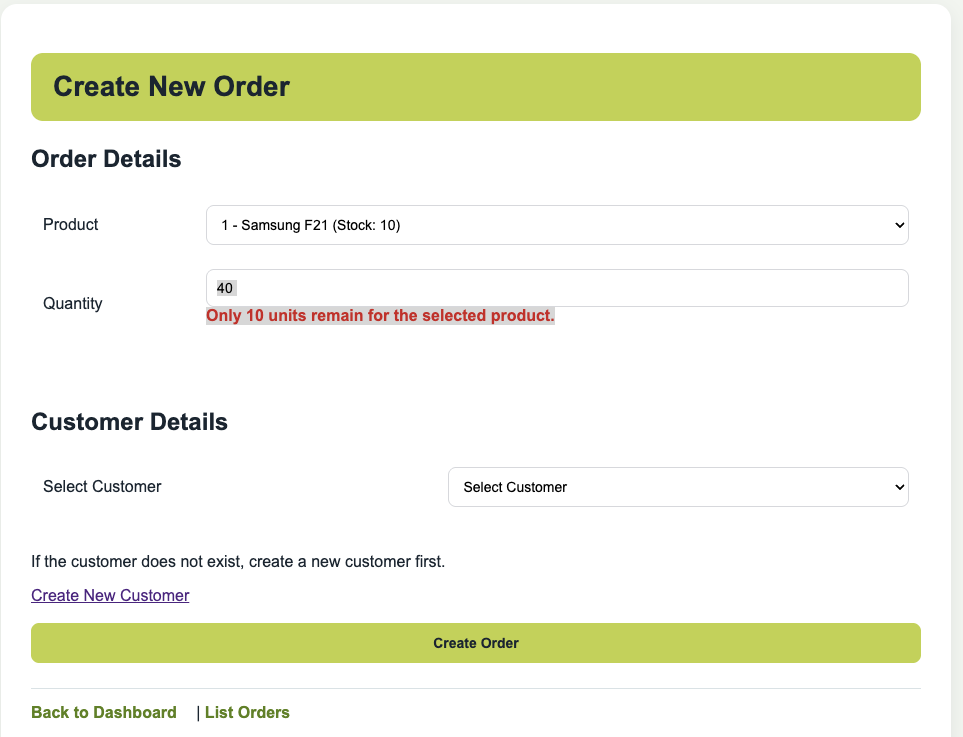
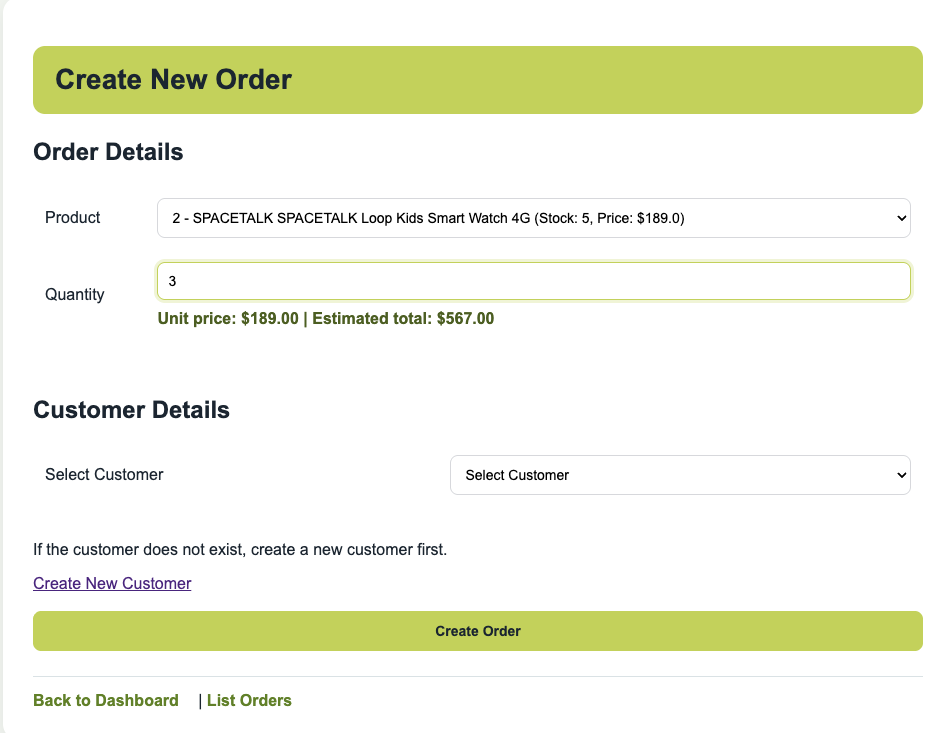
Update dashboard actions and screenshots

diff --git a/build/web/resources/css/style.css b/build/web/resources/css/style.css
@@ -266,6 +266,7 @@ input[type=button]:hover {
 .card-btn {
     display: inline-block;
     margin-top: 12px;
+    margin-right: 10px;
     background: #c7db5c;
     color: #1f2937 !important;
     text-decoration: none;

diff --git a/web/resources/css/style.css b/web/resources/css/style.css
@@ -266,6 +266,7 @@ input[type=button]:hover {
 .card-btn {
     display: inline-block;
     margin-top: 12px;
+    margin-right: 10px;
     background: #c7db5c;
     color: #1f2937 !important;
     text-decoration: none;

diff --git a/docs/screenshots/README.md b/docs/screenshots/README.md
@@ -2,6 +2,12 @@
 
 This folder contains screenshots of the Online Electronics Retail Store web application.
 
+## Dashboard
+
+![Dashboard page](dashboard.png)
+
+Dashboard with sidebar navigation, summary cards, quick actions, and logout control.
+
 ## Account Login
 
 ![Account login page](account-login.png)
@@ -10,9 +16,19 @@ Login page with links for account recovery and new account registration.
 
 ## Create Account
 
+![Verify email page](verify-email.png)
+
+Email verification form used to generate a registration verification code.
+
 ![Create account page](create-account.png)
 
 Registration page with verification code fields and password validation feedback.
+
+## Email Testing
+
+![Fake SMTP verification email](fakesmtp-verification-email.png)
+
+Fake SMTP Server receiving the registration verification email during local testing.
 
 ## Recover Account
 
@@ -30,11 +46,23 @@ Recovery code and password reset page.
 
 Tablet creation form with product specification, price, stock, and description fields.
 
+## Create Smartwatch
+
+![Create smartwatch page](create-smartwatch.png)
+
+Smartwatch creation form with product specification, price, stock, health, fitness, and wearable connectivity fields.
+
 ## Tablet List
 
 ![Tablet list page](tablet-list.png)
 
 Tablet stock list with search and navigation actions.
+
+## Smartwatch List
+
+![Smartwatch list page](smartwatch-list.png)
+
+Smartwatch stock list showing wearable product details, stock, health monitoring, and fitness tracking.
 
 ## Add Customer
 
@@ -52,7 +80,7 @@ Customer list showing customer details, order count, and navigation actions.
 
 ![Create order page](create-order.png)
 
-Order creation form showing product stock validation when the requested quantity is higher than available stock.
+Order creation form showing product stock, unit price, and estimated total before the order is submitted.
 
 ## Order List
 
